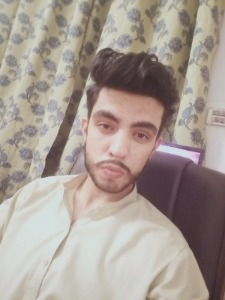
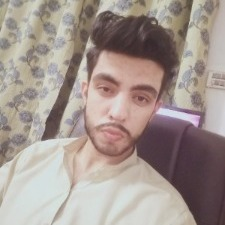
Resized profile image

diff --git a/pages/index.js b/pages/index.js
@@ -10,9 +10,9 @@ export default function Home() {
       </Head>
       <section className={utilStyles.headingMd}>
         <p>
-          {" "}
-          Hello, I’m Hassan. I’m a software engineer and a freelancer .You can
-          contact me on Twitter.
+          Full Stack Software Engineer and Freelance Developer, I help founders
+          add value to society through technology, I love open source and
+          startups.
         </p>
         <p>
           (This is a sample website - you’ll be building a site like this on{" "}

diff --git a/components/layout.js b/components/layout.js
@@ -4,7 +4,7 @@ import utilStyles from "../styles/utils.module.css";
 import Link from "next/link";
 
 const name = "Arbab Hassan";
-export const siteTitle = "Next.js Sample Website";
+export const siteTitle = "Arbab Hassan - A Freelance Developer";
 
 export default function Layout({ children, home }) {
   return (

diff --git a/components/layout.module.css b/components/layout.module.css
@@ -17,7 +17,7 @@
 
 .headerHomeImage {
   width: 8rem;
-  height: 9rem;
+  height: 8rem;
 }
 
 .backToHome {
